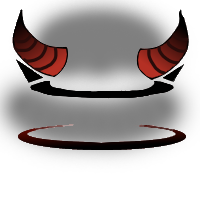
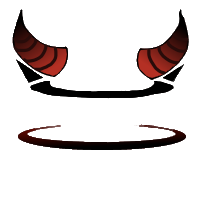
viewdelete

diff --git a/View/main.py b/View/main.py
@@ -322,7 +322,7 @@ class GraphicalView(object):
         ''' skills '''
         self.stun_images = [ pg.image.load('View/image/skill/magicfield_'+str(i+1)+'.png') for i in range(9) ]
         self.mask_images = [ pg.image.load('View/image/skill/shield_'+str(i+1)+'.png' )for i in range(12) ]
-        self.barrier_images = [ [pg.image.load('View/image/barrierSimple/barrier'+str(j%4+1)+'.png') for j in range(9)] for i in range(modelConst.PlayerNum) ]
+        """self.barrier_images = [ [pg.image.load('View/image/barrierSimple/barrier'+str(j%4+1)+'.png') for j in range(9)] for i in range(modelConst.PlayerNum) ]"""
         self.new_barrier_images_vertical = pg.image.load('View/image/barrier/barrier_vertical.png')
         self.new_barrier_images_horizontal = pg.image.load('View/image/barrier/barrier_horizontal.png')
         ''' balls '''
@@ -346,7 +346,7 @@ class GraphicalView(object):
         self.light_images = [pg.image.load('View/image/visual_effect/light3/light3_'+str(i%4+1)+'.png') for i in range(4) ]
         self.not18_images = [pg.image.load('View/image/visual_effect/18/18_'+str(i%4+1)+'.png') for i in range(4) ]
         self.rain_images = [pg.image.load('View/image/visual_effect/rain2/rain2_'+str(i%4+1)+'.png') for i in range(4) ]
-        self.boss_images = [pg.image.load('View/image/visual_effect/boss2/boss2_'+str(i%4+1)+'.png') for i in range(4) ]
+        self.boss_images = [pg.image.load('View/image/visual_effect/boss3/boss3_'+str(i%4+1)+'.png') for i in range(4) ]
         self.fly_images = [pg.image.load('View/image/visual_effect/fly/fly_'+str(i%4+1)+'.png') for i in range(4) ]
         self.rose_images = [pg.image.load('View/image/visual_effect/rose/rose_'+str(i%4+1)+'.png') for i in range(4) ]
         
